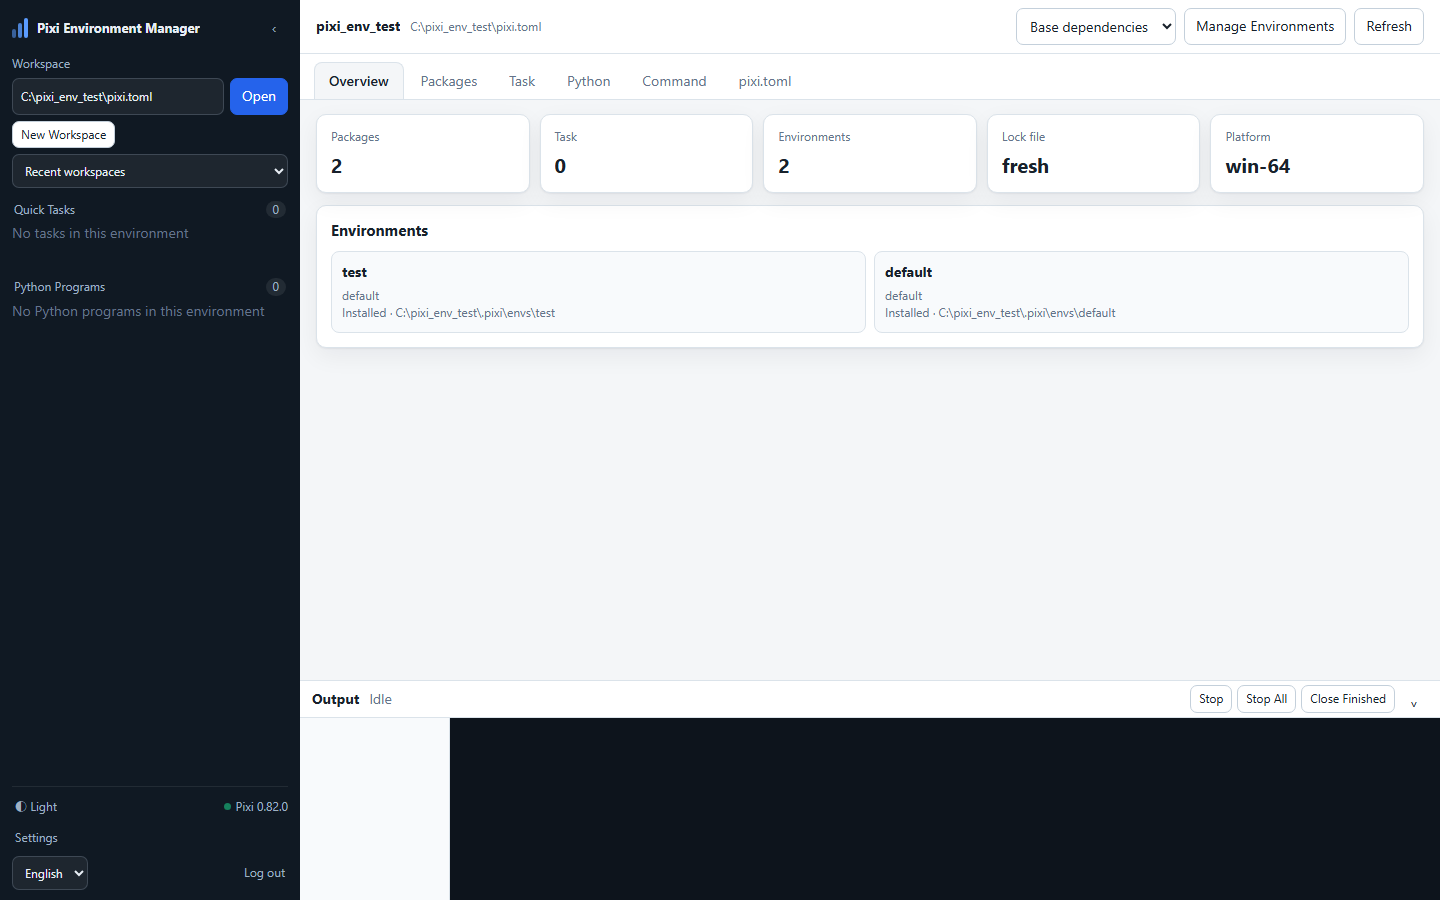
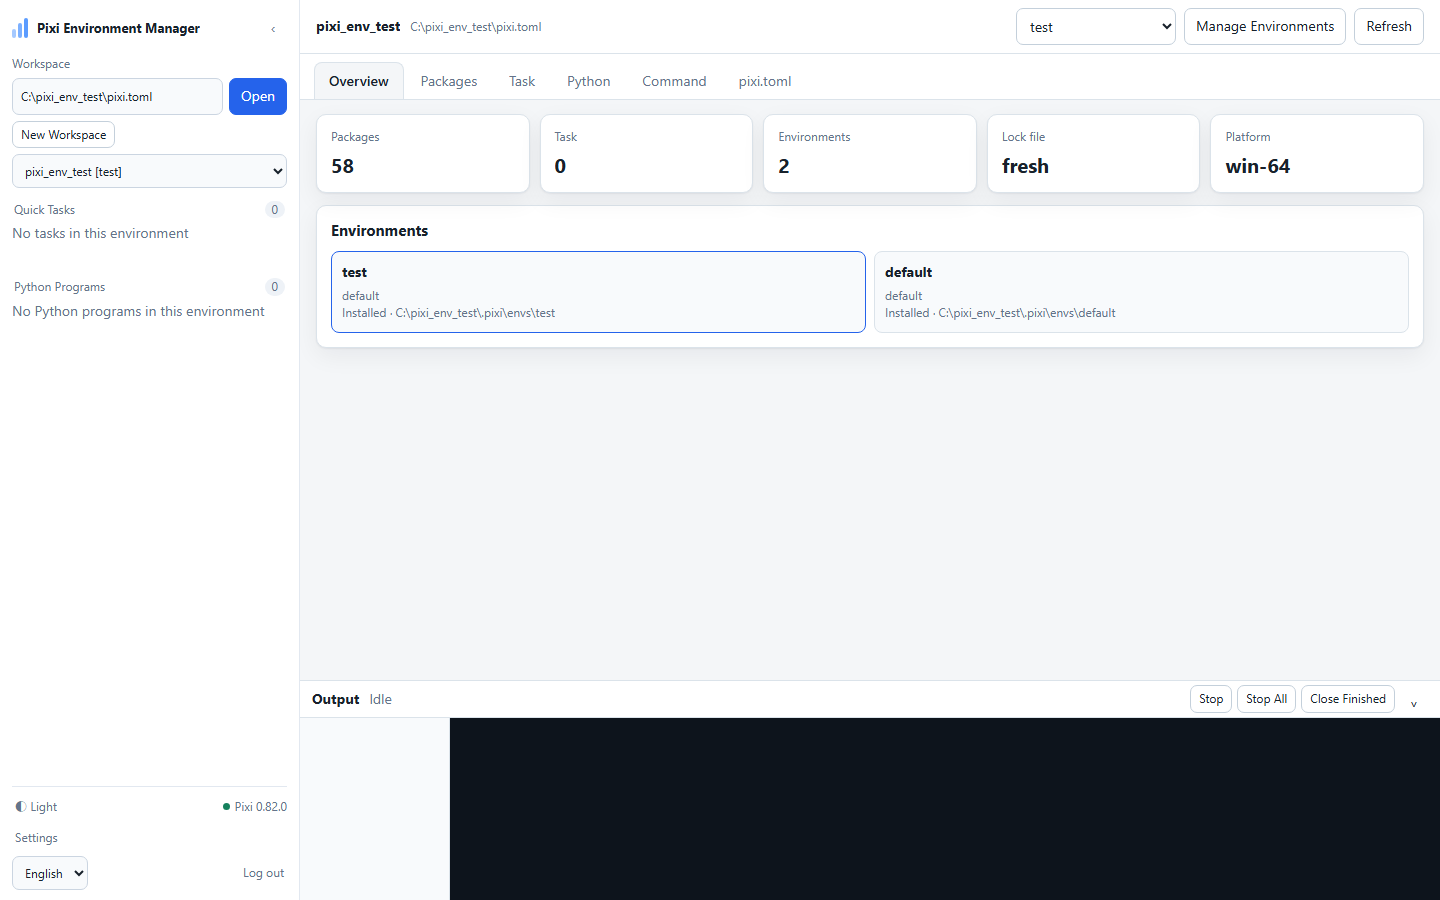
style: make the light web theme fully light

Changed region(s): [[0.0, 0.0, 0.25, 1.0], [0.7188, 0.0311, 0.75, 0.0622]]

diff --git a/app/web/static/app.css b/app/web/static/app.css
@@ -13,9 +13,19 @@
   --good: #16815d;
   --warn: #b7791f;
   --danger: #c2413a;
-  --sidebar: #101923;
-  --sidebar-text: #e8eef5;
-  --sidebar-muted: #9fb0c2;
+  --sidebar: #ffffff;
+  --sidebar-text: #18212b;
+  --sidebar-muted: #64748b;
+  --sidebar-line: #e2e8f0;
+  --sidebar-hover: #f1f5f9;
+  --sidebar-input: #f8fafc;
+  --sidebar-input-border: #cbd5e1;
+  --sidebar-placeholder: #94a3b8;
+  --sidebar-badge: #eef2f7;
+  --sidebar-quick: #f8fafc;
+  --sidebar-quick-hover: #eef4fb;
+  --sidebar-terminal: #e2e8f0;
+  --modal-backdrop: rgba(226, 232, 240, .74);
   --shadow: 0 1px 2px rgba(15, 23, 42, .06), 0 8px 24px rgba(15, 23, 42, .06);
   --radius: 10px;
 }
@@ -37,6 +47,16 @@
   --sidebar: #0b1118;
   --sidebar-text: #e6edf5;
   --sidebar-muted: #8fa2b6;
+  --sidebar-line: rgba(159, 176, 194, .25);
+  --sidebar-hover: rgba(255, 255, 255, .07);
+  --sidebar-input: rgba(255, 255, 255, .06);
+  --sidebar-input-border: rgba(159, 176, 194, .25);
+  --sidebar-placeholder: #7e92a7;
+  --sidebar-badge: rgba(255, 255, 255, .08);
+  --sidebar-quick: rgba(255, 255, 255, .035);
+  --sidebar-quick-hover: rgba(255, 255, 255, .07);
+  --sidebar-terminal: rgba(255, 255, 255, .12);
+  --modal-backdrop: rgba(4, 10, 18, .48);
   --shadow: 0 1px 2px rgba(0, 0, 0, .35), 0 12px 28px rgba(0, 0, 0, .25);
 }
 * { box-sizing: border-box; }
@@ -95,6 +115,7 @@ a { color: var(--accent); text-decoration: none; }
   min-width: 220px;
   background: var(--sidebar);
   color: var(--sidebar-text);
+  border-right: 1px solid var(--sidebar-line);
   display: flex;
   flex-direction: column;
   padding: 14px 12px 10px;
@@ -102,7 +123,7 @@ a { color: var(--accent); text-decoration: none; }
   overflow: hidden;
   transition: width .18s ease, padding .18s ease;
 }
-.app-shell.sidebar-collapsed .sidebar { width: 0; min-width: 0; padding-left: 0; padding-right: 0; }
+.app-shell.sidebar-collapsed .sidebar { width: 0; min-width: 0; padding-left: 0; padding-right: 0; border-right: 0; }
 .sidebar-header { display: flex; align-items: center; justify-content: space-between; gap: 8px; }
 .brand { display: flex; align-items: center; gap: 9px; min-width: 0; }
 .brand-mark { display: inline-flex; gap: 2px; align-items: end; height: 20px; }
@@ -128,18 +149,18 @@ a { color: var(--accent); text-decoration: none; }
 .input-row { display: flex; gap: 6px; }
 .input-row input { min-width: 0; flex: 1; }
 .sidebar input, .sidebar select {
-  background: rgba(255, 255, 255, .06);
+  background: var(--sidebar-input);
   color: var(--sidebar-text);
-  border: 1px solid rgba(159, 176, 194, .25);
+  border: 1px solid var(--sidebar-input-border);
   border-radius: 7px;
   padding: 7px 8px;
   font-size: 12px;
 }
-.sidebar input::placeholder { color: #7e92a7; }
+.sidebar input::placeholder { color: var(--sidebar-placeholder); }
 .sidebar select { max-width: 100%; }
 .sidebar-section { display: flex; flex-direction: column; min-height: 0; gap: 5px; }
 .section-title { display: flex; justify-content: space-between; color: var(--sidebar-muted); font-size: 12px; padding: 0 2px; }
-.badge { background: rgba(255,255,255,.08); border-radius: 999px; padding: 0 7px; }
+.badge { background: var(--sidebar-badge); border-radius: 999px; padding: 0 7px; }
 .quick-list { overflow: auto; min-height: 42px; display: grid; gap: 4px; }
 .quick-row {
   display: flex;
@@ -147,10 +168,10 @@ a { color: var(--accent); text-decoration: none; }
   align-items: flex-start;
   padding: 6px;
   border-radius: 8px;
-  background: rgba(255,255,255,.035);
+  background: var(--sidebar-quick);
   border: 1px solid transparent;
 }
-.quick-row:hover { background: rgba(255,255,255,.07); border-color: rgba(255,255,255,.08); }
+.quick-row:hover { background: var(--sidebar-quick-hover); border-color: var(--sidebar-line); }
 .quick-row .run-btn {
   border: 0;
   background: #1f6feb;
@@ -161,11 +182,11 @@ a { color: var(--accent); text-decoration: none; }
   padding: 0;
   flex: none;
 }
-.quick-row .run-btn.terminal { background: rgba(255,255,255,.12); color: var(--sidebar-text); font-size: 10px; }
+.quick-row .run-btn.terminal { background: var(--sidebar-terminal); color: var(--sidebar-text); font-size: 10px; }
 .quick-text { min-width: 0; }
 .quick-name { font-size: 12px; white-space: nowrap; overflow: hidden; text-overflow: ellipsis; }
 .quick-sub { color: var(--sidebar-muted); font-size: 11px; white-space: nowrap; overflow: hidden; text-overflow: ellipsis; }
-.sidebar-footer { margin-top: auto; display: grid; gap: 7px; padding-top: 8px; border-top: 1px solid rgba(255,255,255,.08); font-size: 12px; }
+.sidebar-footer { margin-top: auto; display: grid; gap: 7px; padding-top: 8px; border-top: 1px solid var(--sidebar-line); font-size: 12px; }
 .footer-row { display: flex; align-items: center; justify-content: space-between; gap: 8px; }
 .theme-toggle, .link-button { border: 0; background: transparent; color: var(--sidebar-muted); padding: 3px; }
 .theme-toggle:hover, .link-button:hover { color: var(--sidebar-text); }
@@ -307,7 +328,7 @@ input:focus, select:focus, textarea:focus { outline: 2px solid var(--accent-soft
 .output-panel.collapsed #toggle-output { transform: rotate(180deg); }
 
 /* ---------- Modal / toast ---------- */
-.modal-root { position: fixed; inset: 0; display: none; place-items: center; background: rgba(4, 10, 18, .48); z-index: 50; padding: 20px; }
+.modal-root { position: fixed; inset: 0; display: none; place-items: center; background: var(--modal-backdrop); z-index: 50; padding: 20px; }
 .modal-root.open { display: grid; }
 .modal { width: min(560px, 100%); max-height: 86vh; overflow: auto; background: var(--panel); border: 1px solid var(--line); border-radius: 12px; box-shadow: var(--shadow); padding: 18px; }
 .modal h2 { margin: 0 0 12px; font-size: 17px; }
